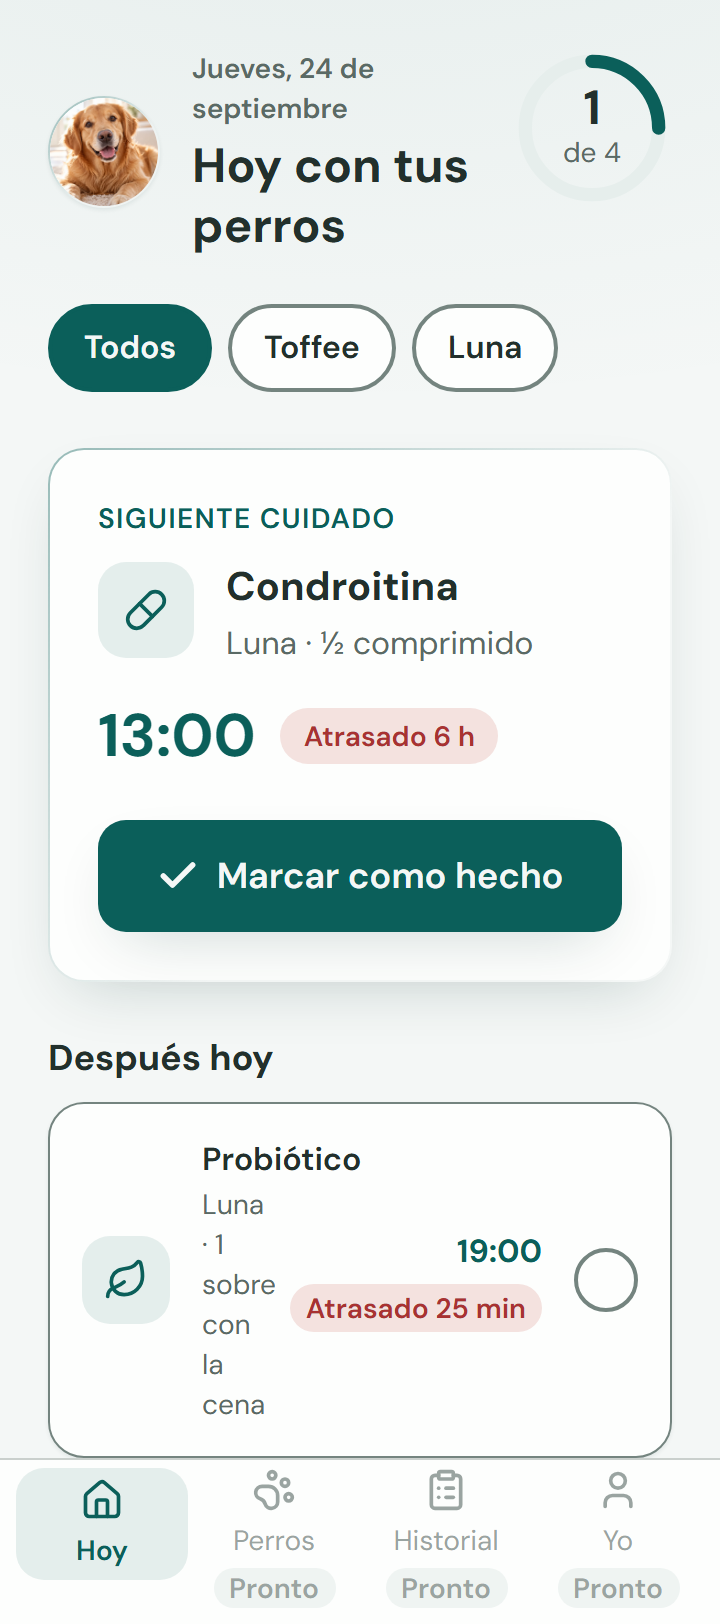
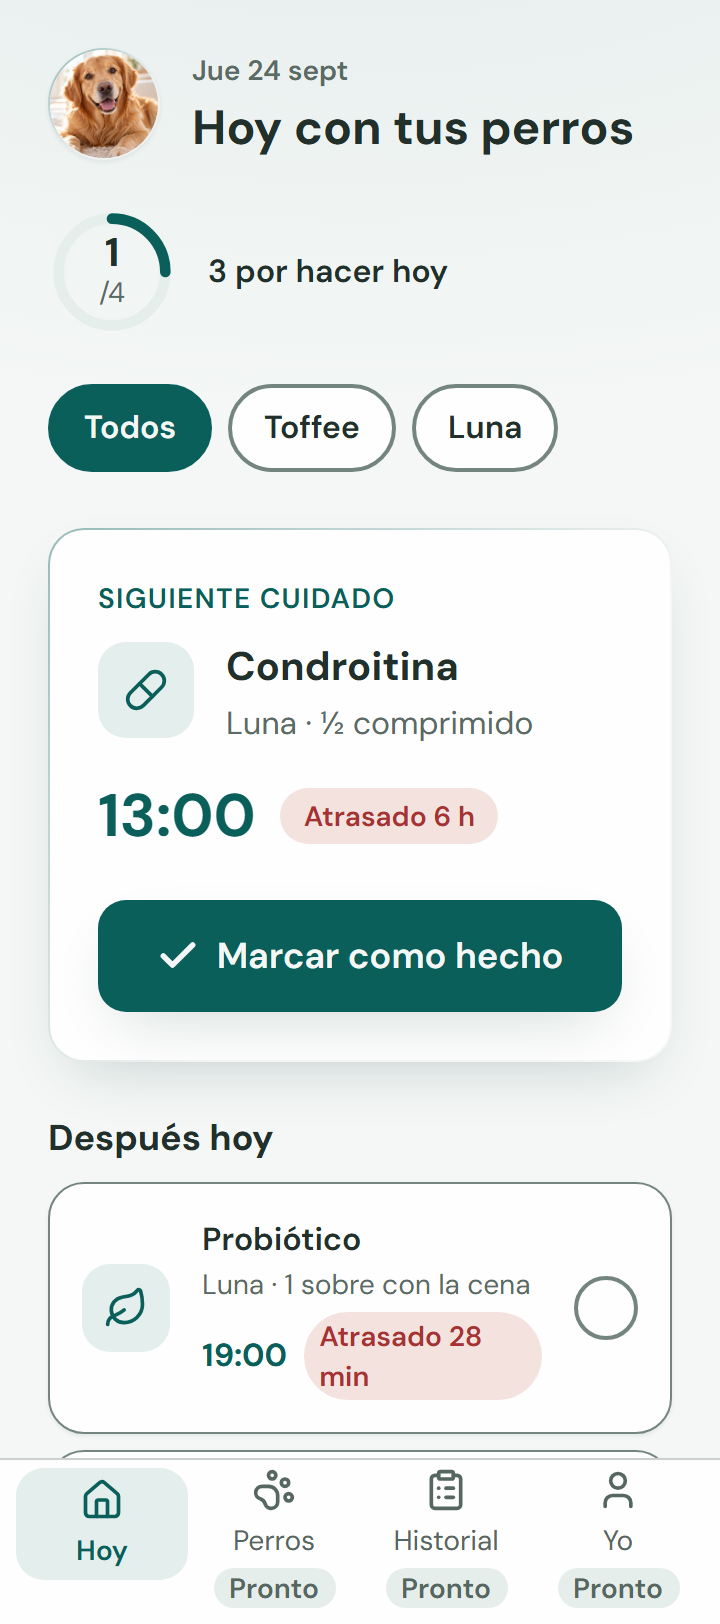
Hoy: filas sin texto partido, cabecera en una línea, aviso de guardado, toast animado

diff --git a/components/app/Hoy.tsx b/components/app/Hoy.tsx
@@ -10,7 +10,7 @@
 //   estados: cargando (esqueleto) · vacío · al día (éxito) · sin conexión · deshabilitado (menú «Pronto»)
 
 import { useEffect, useState, useSyncExternalStore } from 'react';
-import { MotionConfig, animate, motion, useReducedMotion } from 'motion/react';
+import { AnimatePresence, MotionConfig, animate, motion, useReducedMotion } from 'motion/react';
 import {
   Bug,
   Check,
@@ -31,10 +31,12 @@ import {
 import {
   deshacer,
   hoy,
+  huboFalloGuardado,
   manana,
   marcarHecho,
   obtenerApp,
   proximos,
+  reintentarGuardado,
   suscribirApp,
   type EstadoApp,
   type FilaHoy,
@@ -70,7 +72,7 @@ const suscribirRed = (avisar: () => void) => {
 };
 
 const fechaLarga = (d: Date) => {
-  const t = new Intl.DateTimeFormat('es', { weekday: 'long', day: 'numeric', month: 'long' }).format(d);
+  const t = new Intl.DateTimeFormat('es', { weekday: 'short', day: 'numeric', month: 'short' }).format(d).replace(/\.|,/g, '');
   return t.charAt(0).toUpperCase() + t.slice(1);
 };
 
@@ -107,8 +109,8 @@ function Anillo({ hechos, total }: { hechos: number; total: number }) {
     // eslint-disable-next-line react-hooks/exhaustive-deps
   }, [hechos, reduce]);
   return (
-    <div className="relative size-20 shrink-0" role="img" aria-label={`${hechos} de ${total} cuidados hechos hoy`}>
-      <svg viewBox="0 0 96 96" className="size-20 -rotate-90">
+    <div className="relative size-16 shrink-0" role="img" aria-label={`${hechos} de ${total} cuidados hechos hoy`}>
+      <svg viewBox="0 0 96 96" className="size-16 -rotate-90">
         <circle cx="48" cy="48" r="40" fill="none" strokeWidth="8" className="stroke-[var(--surface-2)]" />
         <motion.circle
           cx="48"
@@ -124,8 +126,8 @@ function Anillo({ hechos, total }: { hechos: number; total: number }) {
         />
       </svg>
       <div className="absolute inset-0 flex flex-col items-center justify-center">
-        <span className="text-2xl font-bold tabular-nums leading-none">{reduce ? hechos : visto}</span>
-        <span className="text-sm text-[var(--text-secondary)]">de {total}</span>
+        <span className="text-xl font-bold tabular-nums leading-none">{reduce ? hechos : visto}</span>
+        <span className="text-sm text-[var(--text-secondary)]">/{total}</span>
       </div>
     </div>
   );
@@ -213,10 +215,10 @@ function FilaPendiente({ fila, varios, onHecho, i }: { fila: FilaHoy; varios: bo
             {varios ? `${fila.perro.nombre} · ` : ''}
             {fila.cuidado.detalle}
           </span>
-        </span>
-        <span className="flex shrink-0 flex-col items-end gap-1">
-          <span className="text-base font-bold tabular-nums text-[var(--accent)]">{fila.cuidado.hora}</span>
-          {t !== 'normal' && <span className={`rounded-full px-2 py-0.5 text-sm font-semibold ${tono[t]}`}>{texto}</span>}
+          <span className="mt-1 flex items-center gap-2">
+            <span className="text-base font-bold tabular-nums text-[var(--accent)]">{fila.cuidado.hora}</span>
+            {t !== 'normal' && <span className={`rounded-full px-2 py-0.5 text-sm font-semibold ${tono[t]}`}>{texto}</span>}
+          </span>
         </span>
         <span aria-hidden="true" className="inline-flex size-8 shrink-0 items-center justify-center rounded-full border-2 border-[var(--border-ui)]" />
       </button>
@@ -267,8 +269,8 @@ function FilaFutura({ fila, varios, i }: { fila: FilaProxima; varios: boolean; i
           {varios ? `${fila.perro.nombre} · ` : ''}
           {fila.cuidado.detalle}
         </span>
+        <span className={`mt-1 inline-block rounded-full px-2 py-0.5 text-sm font-semibold ${tono[t]}`}>{texto}</span>
       </span>
-      <span className={`shrink-0 rounded-full px-3 py-1 text-sm font-semibold ${tono[t]}`}>{texto}</span>
     </motion.li>
   );
 }
@@ -290,7 +292,7 @@ function Menu() {
         </li>
         {pronto.map(({ icono: Icono, texto }) => (
           <li key={texto}>
-            <span aria-disabled="true" className="flex min-h-14 flex-col items-center justify-center gap-1 text-sm text-[var(--text-secondary)] opacity-60">
+            <span aria-disabled="true" className="flex min-h-14 flex-col items-center justify-center gap-1 text-sm text-[var(--text-tertiary)]">
               <Icono size={22} aria-hidden="true" />
               {texto}
               <span className="rounded-full bg-[var(--surface-2)] px-2 text-sm font-semibold">Pronto</span>
@@ -331,6 +333,7 @@ export default function Hoy() {
   const e = useSyncExternalStore(suscribirApp, obtenerApp, () => null);
   const minuto = useSyncExternalStore(suscribirReloj, minutoActual, () => null);
   const conexion = useSyncExternalStore(suscribirRed, enLinea, () => true);
+  const fallo = useSyncExternalStore(suscribirApp, huboFalloGuardado, () => false);
   const [perroId, setPerroId] = useState<string | null>(null);
   const [ultimo, setUltimo] = useState<{ id: string; texto: string } | null>(null);
   useEffect(() => {
@@ -364,6 +367,14 @@ export default function Hoy() {
   return (
     <MotionConfig reducedMotion="user">
       <div className="mx-auto flex min-h-dvh w-full max-w-md flex-col text-[var(--text-primary)] [font-family:var(--font-body)]">
+        {fallo && (
+          <div role="alert" className="flex items-center justify-between gap-2 bg-[color-mix(in_oklab,var(--danger)_14%,var(--surface))] px-6 py-2 text-[var(--danger)]">
+            <p className="text-sm font-semibold">No pudimos guardar en este aparato. Lo ves ahora, pero puede perderse al cerrar.</p>
+            <button type="button" onClick={reintentarGuardado} className="inline-flex min-h-11 shrink-0 items-center px-3 text-base font-bold underline underline-offset-4 [touch-action:manipulation]">
+              Reintentar
+            </button>
+          </div>
+        )}
         {!conexion && (
           <p role="status" className="flex items-center justify-center gap-2 bg-[var(--surface-2)] px-6 py-2 text-sm font-medium">
             <WifiOff size={16} aria-hidden="true" />
@@ -379,8 +390,16 @@ export default function Hoy() {
                 <h1 className="mt-1 text-2xl font-bold leading-tight">{titulo}</h1>
               </div>
             </div>
-            {total > 0 && <Anillo hechos={hechos.length} total={total} />}
           </header>
+
+          {total > 0 && (
+            <div className="flex items-center gap-4">
+              <Anillo hechos={hechos.length} total={total} />
+              <p className="text-base font-semibold">
+                {hechos.length === total ? 'Todos los cuidados de hoy están hechos' : `${total - hechos.length} por hacer hoy`}
+              </p>
+            </div>
+          )}
 
           {e.perros.length > 1 && <Selector e={e} activo={perroId} onElegir={setPerroId} />}
 
@@ -391,7 +410,7 @@ export default function Hoy() {
               <motion.span
                 initial={{ scale: 0.6 }}
                 animate={{ scale: 1 }}
-                transition={{ type: 'spring', stiffness: 260, damping: 18 }}
+                transition={{ duration: 0.28, ease: [0.16, 1, 0.3, 1] }}
                 className="inline-flex size-12 shrink-0 items-center justify-center rounded-full bg-[var(--accent)]"
               >
                 <Check size={26} color="var(--bg)" strokeWidth={3} aria-hidden="true" />
@@ -453,8 +472,16 @@ export default function Hoy() {
             </section>
           )}
         </main>
+        <AnimatePresence>
         {ultimo && (
-          <div role="status" className="sticky bottom-20 z-20 mx-6 mb-2 flex items-center justify-between gap-2 rounded-[var(--radius-card)] bg-[var(--text-primary)] py-2 pl-4 pr-2 text-[var(--bg)] shadow-[var(--shadow-2)]">
+          <motion.div
+            key="toast"
+            initial={{ opacity: 0, y: 16 }}
+            animate={{ opacity: 1, y: 0 }}
+            exit={{ opacity: 0, y: 16 }}
+            transition={{ duration: 0.2, ease: [0.16, 1, 0.3, 1] }}
+            role="status"
+            className="sticky bottom-20 z-20 mx-6 mb-2 flex items-center justify-between gap-2 rounded-[var(--radius-card)] bg-[var(--text-primary)] py-2 pl-4 pr-2 text-[var(--bg)] shadow-[var(--shadow-2)]">
             <span className="text-base font-semibold">{ultimo.texto}: hecho</span>
             <button
               type="button"
@@ -467,8 +494,9 @@ export default function Hoy() {
               <Undo2 size={18} aria-hidden="true" />
               Deshacer
             </button>
-          </div>
+          </motion.div>
         )}
+        </AnimatePresence>
         <Menu />
       </div>
     </MotionConfig>

diff --git a/lib/app.ts b/lib/app.ts
@@ -135,12 +135,21 @@ function cargar(): EstadoApp {
   const respuestas = leerRespuestas();
   return respuestas.nombre.trim() ? desdeOnboarding(respuestas, ahora) : ejemplo(ahora);
 }
+let falloGuardado = false;
 function guardar(e: EstadoApp): void {
   try {
     window.localStorage.setItem(CLAVE, JSON.stringify(e));
+    falloGuardado = false;
   } catch {
-    // Navegación privada: sigue en memoria durante la sesión.
+    // Navegación privada o sin espacio: sigue en memoria y se avisa a la persona.
+    falloGuardado = true;
   }
+}
+export const huboFalloGuardado = (): boolean => falloGuardado;
+/** Vuelve a intentar guardar lo que hay en pantalla. */
+export function reintentarGuardado(): void {
+  guardar(obtenerApp());
+  avisar();
 }
 
 export const obtenerApp = (): EstadoApp => (estado ??= cargar());

diff --git a/docs/revisiones/hoy-veredicto.md b/docs/revisiones/hoy-veredicto.md
@@ -1,9 +1,10 @@
-# VEREDICTO revisor-visual — Hoy
-Fecha: 2026-09-24 12:00
+# VEREDICTO revisor-visual — Hoy (ronda 2)
+Fecha: 2026-09-24 13:00
 Screenshot: docs/revisiones/hoy-375.png
-Usabilidad: 29/40
+Usabilidad: 28/40
 Craft: 13/20
 Copy (si vende): N-A
 Fidelidad (si hubo referencia): N-A
 Veredicto: NO LISTA
-Top defectos: 1) Falta el dispositivo ownable declarado en la FICHA-ARTE y en el SPEC del componente (foto del perro con duotone): la cabecera es solo texto y un anillo, y el kit (DM Sans + teal + chips) es intercambiable con cualquier app de salud. 2) Loop de retorno ausente: sin racha, sin resumen de lo hecho ni vista de mañana, y "Todo al día" es una tarjeta plana sin momento emocional; marcar no da toast, ni salida animada, ni celebración sobria. 3) Marcar por un toque en toda la fila "Después hoy" (círculo vacío) sin confirmación ni aviso; el Deshacer solo vive en "Hecho hoy", abajo del scroll, así que un toque accidental no se corrige donde ocurre. 4) Filas desalineadas y con texto partido: en "Después hoy" el detalle se rompe en 2-3 líneas ("Luna · 1 sobre / con la cena"), la píldora de estado queda desfasada de la hora y en Próximamente el título salta a 3 líneas; además las filas pendientes no llevan chip de ícono y las futuras sí (inconsistencia de componente). 5) Menú inferior con Perros/Historial/Yo idénticos a pestañas activas pero sin acción y sin indicar "Pronto" a simple vista (parecen interactivos); tampoco hay estado de error (falla al guardar) ni recuperación, solo el aviso de sin conexión.
+Top defectos: 1) Filas de "Después hoy" siguen con texto partido: "Luna · 1 sobre con la cena" cae a 5 líneas a 375px y a 7 líneas a 360px (hoy-360.png, "· 1" huérfano), y "Reponer Apoquel" salta a 3 líneas; la columna hora+píldora más el círculo de 32px comen el ancho. Fix: mover hora y píldora a una segunda línea bajo el título, o quitar el círculo (la fila entera ya es botón), y darle al detalle el ancho completo. 2) Cabecera apretada: la fecha se parte en 2 líneas ("Jueves, 24 de / septiembre"), el título en 2 y el anillo 80px compite con el avatar de 56px; son 4 tamaños de texto (30/24/20/18) más 14-16. Fix: fecha corta ("Jue 24 sep") en una línea, título en 1 línea o anillo más chico. 3) Dispositivo ownable a medias: la foto del perro lleva borde degradado pero sin el duotone que declara FICHA-ARTE/SPEC; el resto (DM Sans + teal + chips) sigue siendo intercambiable. Además "Todo al día" usa spring de escala pese a que la ficha dice "sin springs ni celebraciones". Fix: aplicar .foto-duotone o corregir la ficha; alinear el motion con la ficha; sumar racha o continuidad visible. 4) Sin estado de error al guardar (marcarHecho/deshacer no manejan fallo; solo hay aviso de sin conexión) y el toast Deshacer aparece sin animación de entrada/salida, tapa filas y desaparece a los 6 s sin aviso. Fix: try/catch con mensaje qué pasó + reintentar; animar entrada/salida del toast. 5) Menú: Perros/Historial/Yo ahora dicen "Pronto" pero con opacity 60% y texto pequeño el contraste queda bajo AA y ocupan ~72px de alto; sigue pareciendo pestañas. Fix: subir contraste del texto (sin opacity global) y reducir la altura del menú.
+Verificación de ronda 1: (1) ownable: PARCIAL; (2) loop de retorno: PARCIAL (toast Deshacer, "Hecho hoy", vista de mañana y vacío ok; sin racha ni animación de salida); (3) deshacer donde ocurre: CORREGIDO; (4) filas desalineadas/texto partido: NO CORREGIDO (chip de ícono en pendientes sí agregado); (5) menú "Pronto" y estados de error: PARCIAL (etiqueta añadida; sin error de guardado).

diff --git a/docs/revisiones/prev/hoy-veredicto-ronda2.md b/docs/revisiones/prev/hoy-veredicto-ronda2.md
@@ -1,0 +1,10 @@
+# VEREDICTO revisor-visual — Hoy (ronda 2)
+Fecha: 2026-09-24 13:00
+Screenshot: docs/revisiones/hoy-375.png
+Usabilidad: 28/40
+Craft: 13/20
+Copy (si vende): N-A
+Fidelidad (si hubo referencia): N-A
+Veredicto: NO LISTA
+Top defectos: 1) Filas de "Después hoy" siguen con texto partido: "Luna · 1 sobre con la cena" cae a 5 líneas a 375px y a 7 líneas a 360px (hoy-360.png, "· 1" huérfano), y "Reponer Apoquel" salta a 3 líneas; la columna hora+píldora más el círculo de 32px comen el ancho. Fix: mover hora y píldora a una segunda línea bajo el título, o quitar el círculo (la fila entera ya es botón), y darle al detalle el ancho completo. 2) Cabecera apretada: la fecha se parte en 2 líneas ("Jueves, 24 de / septiembre"), el título en 2 y el anillo 80px compite con el avatar de 56px; son 4 tamaños de texto (30/24/20/18) más 14-16. Fix: fecha corta ("Jue 24 sep") en una línea, título en 1 línea o anillo más chico. 3) Dispositivo ownable a medias: la foto del perro lleva borde degradado pero sin el duotone que declara FICHA-ARTE/SPEC; el resto (DM Sans + teal + chips) sigue siendo intercambiable. Además "Todo al día" usa spring de escala pese a que la ficha dice "sin springs ni celebraciones". Fix: aplicar .foto-duotone o corregir la ficha; alinear el motion con la ficha; sumar racha o continuidad visible. 4) Sin estado de error al guardar (marcarHecho/deshacer no manejan fallo; solo hay aviso de sin conexión) y el toast Deshacer aparece sin animación de entrada/salida, tapa filas y desaparece a los 6 s sin aviso. Fix: try/catch con mensaje qué pasó + reintentar; animar entrada/salida del toast. 5) Menú: Perros/Historial/Yo ahora dicen "Pronto" pero con opacity 60% y texto pequeño el contraste queda bajo AA y ocupan ~72px de alto; sigue pareciendo pestañas. Fix: subir contraste del texto (sin opacity global) y reducir la altura del menú.
+Verificación de ronda 1: (1) ownable: PARCIAL; (2) loop de retorno: PARCIAL (toast Deshacer, "Hecho hoy", vista de mañana y vacío ok; sin racha ni animación de salida); (3) deshacer donde ocurre: CORREGIDO; (4) filas desalineadas/texto partido: NO CORREGIDO (chip de ícono en pendientes sí agregado); (5) menú "Pronto" y estados de error: PARCIAL (etiqueta añadida; sin error de guardado).

diff --git a/FICHA-ARTE.md b/FICHA-ARTE.md
@@ -7,7 +7,7 @@
 ## Identidad derivada (ruta: propuesta propia, protocolo A/B/C)
 - Líderes/mundo: apps de salud y medicación (Medisafe, Bitpet, DogLog) + calma clínica cálida. Combinación tipográfica: fila "Bienestar" de 29 (DM Sans una familia) · validada contra líderes: SÍ (Headspace/Calm patrón una familia)
 - Arquetipo: Cuidador · Mundo del sujeto: pastillero, cartilla de vacunas, saco de comida, recetas del veterinario
-- Dirección del banco 54: "Clínica humana" (#5) · Dispositivo ownable: duotone de marca en la foto del perro
+- Dirección del banco 54: "Clínica humana" (#5) · Dispositivo ownable: duotone de marca en la foto del perro (2026-09-24, por decisión del usuario las fotos van a COLOR NATURAL; el dispositivo pasa a ser el marco con hairline degradado en la foto + la campana del logo)
 
 ## Personalidad compilada
 - Adjetivos: cálida, competente, tranquila
